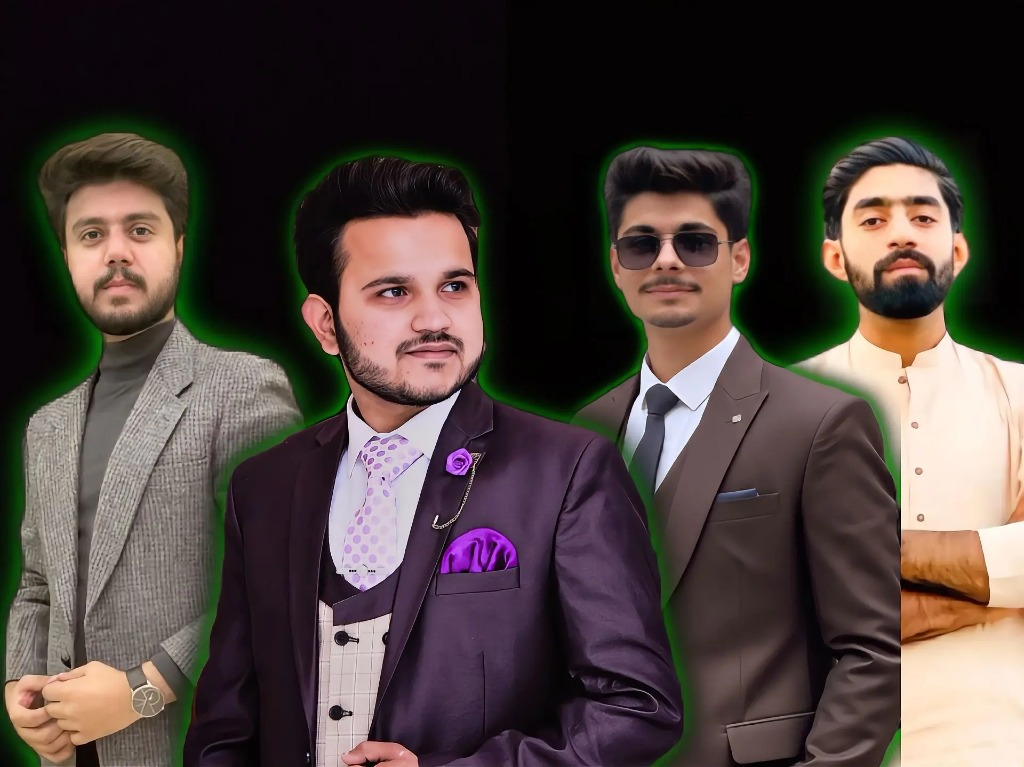
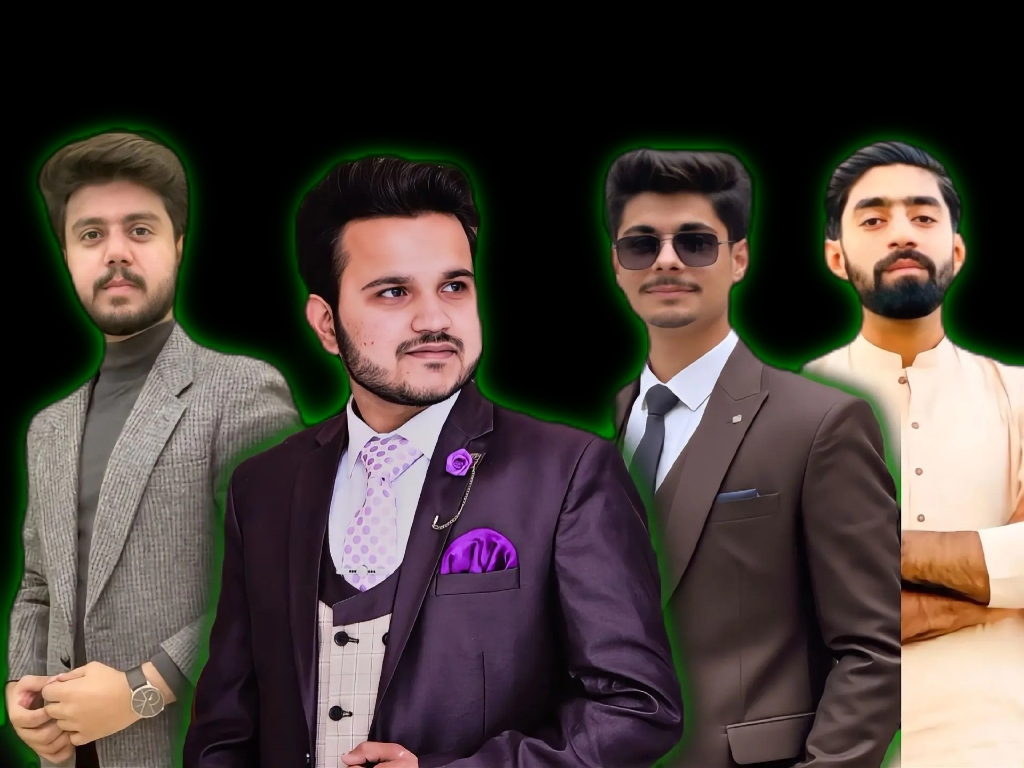
Fix Netlify 404 with static export and netlify.toml

diff --git a/website/app/page.js b/website/app/page.js
@@ -46,45 +46,58 @@ export default async function Home() {
         <style dangerouslySetInnerHTML={{__html: `
           .magic-portal-container {
             position: absolute;
-            bottom: 25%;
+            bottom: 15%;
             left: 50%;
             transform: translateX(-50%);
             width: 100vw;
-            height: 400px;
+            height: 500px;
             perspective: 1000px;
             z-index: 0;
             pointer-events: none;
           }
           .magic-portal-ring {
             position: absolute;
-            top: 50%;
+            top: 60%;
             left: 50%;
-            width: 700px;
-            height: 700px;
+            width: 800px;
+            height: 800px;
             border-radius: 50%;
-            border: 4px solid rgba(16, 185, 129, 0.6);
-            box-shadow: 0 0 60px 20px rgba(16, 185, 129, 0.4), inset 0 0 60px 20px rgba(16, 185, 129, 0.4);
-            animation: spinRing 15s linear infinite;
+            border: 6px solid rgba(16, 185, 129, 0.8);
+            box-shadow: 0 0 80px 30px rgba(16, 185, 129, 0.5), inset 0 0 80px 30px rgba(16, 185, 129, 0.5);
+            animation: spinRing 12s linear infinite;
           }
           .magic-portal-ring::before {
             content: '';
             position: absolute;
-            top: -4px; left: -4px; right: -4px; bottom: -4px;
+            top: -10px; left: -10px; right: -10px; bottom: -10px;
             border-radius: 50%;
-            border: 4px dashed rgba(52, 211, 153, 0.8);
-            animation: spinRingReverse 20s linear infinite;
+            border: 4px dashed rgba(52, 211, 153, 1);
+            animation: spinRingReverse 15s linear infinite;
           }
           .magic-portal-core {
             position: absolute;
-            top: 50%;
+            top: 60%;
             left: 50%;
-            width: 500px;
-            height: 500px;
+            width: 600px;
+            height: 600px;
             border-radius: 50%;
-            background: radial-gradient(circle, rgba(16, 185, 129, 0.9) 0%, rgba(4, 120, 87, 0.4) 40%, transparent 70%);
-            filter: blur(15px);
-            animation: pulseCore 3s ease-in-out infinite alternate;
+            background: radial-gradient(circle, rgba(16, 185, 129, 1) 0%, rgba(4, 120, 87, 0.6) 30%, transparent 70%);
+            filter: blur(20px);
+            animation: pulseCore 2s ease-in-out infinite alternate;
             transform: translate(-50%, -50%) rotateX(75deg);
+          }
+          .magic-light-beam {
+            position: absolute;
+            bottom: 40%;
+            left: 50%;
+            transform: translateX(-50%);
+            width: 500px;
+            height: 800px;
+            background: linear-gradient(to top, rgba(16, 185, 129, 0.5) 0%, transparent 100%);
+            filter: blur(40px);
+            z-index: 1;
+            animation: pulseBeam 4s ease-in-out infinite alternate;
+            pointer-events: none;
           }
           
           @keyframes spinRing {
@@ -96,40 +109,33 @@ export default async function Home() {
             100% { transform: rotateZ(0deg); }
           }
           @keyframes pulseCore {
-            0% { opacity: 0.6; transform: translate(-50%, -50%) rotateX(75deg) scale(0.9); }
-            100% { opacity: 1; transform: translate(-50%, -50%) rotateX(75deg) scale(1.1); }
+            0% { opacity: 0.7; transform: translate(-50%, -50%) rotateX(75deg) scale(0.9); }
+            100% { opacity: 1; transform: translate(-50%, -50%) rotateX(75deg) scale(1.15); }
+          }
+          @keyframes pulseBeam {
+            0% { opacity: 0.5; height: 700px; }
+            100% { opacity: 1; height: 900px; }
           }
 
           .founders-group-wrapper {
             position: relative;
             z-index: 2;
             width: 100%;
-            max-width: 900px;
+            max-width: 1000px;
             margin: 0 auto;
-            display: flex;
-            justify-content: center;
-            align-items: flex-end;
+            aspect-ratio: 16/9;
+            mix-blend-mode: screen; /* Removes black background */
             -webkit-mask-image: linear-gradient(to bottom, black 80%, transparent 100%);
             mask-image: linear-gradient(to bottom, black 80%, transparent 100%);
           }
-
-          .founder-img {
-            position: relative;
-            filter: drop-shadow(0 0 15px rgba(16, 185, 129, 0.6));
-            transition: transform 0.3s ease;
+          
+          .founders-group-wrapper img {
+            mix-blend-mode: screen; /* Failsafe */
           }
-          .founder-img:hover {
-            transform: translateY(-10px) scale(1.02);
-            filter: drop-shadow(0 0 25px rgba(16, 185, 129, 0.9));
-            z-index: 10 !important;
-          }
-
-          @media (max-width: 900px) { .founders-group-wrapper { transform: scale(0.8); margin-bottom: -40px; } }
-          @media (max-width: 600px) { .founders-group-wrapper { transform: scale(0.55); margin-bottom: -100px; } }
-          @media (max-width: 400px) { .founders-group-wrapper { transform: scale(0.45); margin-bottom: -140px; } }
         `}} />
         
         {/* Magical Fantasy Portal Background */}
+        <div className="magic-light-beam"></div>
         <div className="magic-portal-container">
           <div className="magic-portal-core"></div>
           <div className="magic-portal-ring"></div>
@@ -137,30 +143,18 @@ export default async function Home() {
 
         <div className="container text-center" style={{ position: 'relative', zIndex: 3 }}>
           
-          {/* 4 Individual Transparent Images perfectly aligned */}
+          {/* New Group Image (mix-blend-mode applied) */}
           <div className="founders-group-wrapper">
-            {/* Founder 2 (Left) */}
-            <div className="founder-img" style={{ width: '220px', height: '350px', zIndex: 1, marginRight: '-60px' }}>
-              <Image src="/images/founders/founder_2.png" alt="HRAS Founder" fill style={{ objectFit: 'contain', objectPosition: 'bottom' }} priority />
-            </div>
-            
-            {/* Founder 3 (Middle Left) */}
-            <div className="founder-img" style={{ width: '250px', height: '380px', zIndex: 2, marginRight: '-50px' }}>
-              <Image src="/images/founders/founder_3.png" alt="HRAS Founder" fill style={{ objectFit: 'contain', objectPosition: 'bottom' }} priority />
-            </div>
-
-            {/* Founder 1 (Middle Right - Main Center) */}
-            <div className="founder-img" style={{ width: '270px', height: '400px', zIndex: 3, marginRight: '-60px' }}>
-              <Image src="/images/founders/founder_1.png" alt="HRAS Founder" fill style={{ objectFit: 'contain', objectPosition: 'bottom' }} priority />
-            </div>
-
-            {/* Founder 4 (Right) */}
-            <div className="founder-img" style={{ width: '230px', height: '360px', zIndex: 1 }}>
-              <Image src="/images/founders/founder_4.png" alt="HRAS Founder" fill style={{ objectFit: 'contain', objectPosition: 'bottom' }} priority />
-            </div>
+            <Image 
+              src="/images/founders/group.jpg" 
+              alt="HRAS Founders" 
+              fill 
+              style={{ objectFit: 'contain', objectPosition: 'bottom center', mixBlendMode: 'screen' }} 
+              priority 
+            />
           </div>
 
-          <div style={{ position: 'relative', zIndex: 4, marginTop: '10px' }}>
+          <div style={{ position: 'relative', zIndex: 4, marginTop: '20px' }}>
             <h2 style={{ 
               fontSize: 'clamp(2.5rem, 5vw, 4rem)', 
               fontWeight: 900, 
